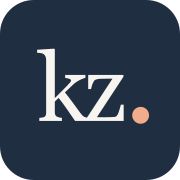
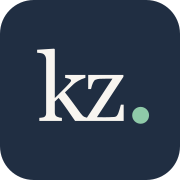
Green accent and publication diagrams
Swap the rust accent for green across the site, favicon, and OG image.
Add an EviGRN code link and method diagram to the NeurIPS entry, and an
abstract diagram for the in-preparation benchmark paper.

Changed region(s): [[0.7222, 0.5833, 0.8333, 0.6944]]

diff --git a/index.html b/index.html
@@ -274,11 +274,42 @@
         <span class="pub-status is-accepted">Accepted</span>
         <p class="pub-cite">A. Hegde, <strong>K. Zook</strong>, Y. Wang, J. Cheng. “Multimodal graph reasoning for gene regulatory network inference.” <em>NeurIPS</em> 2026.</p>
         <p class="pub-note">Co-first author. I worked on the automated literature-validation agent and the multi-omic validation component, which combines chromatin-accessibility and transcriptomic data.</p>
+        <div class="pub-links"><a class="pub-link" href="https://github.com/BioinfoMachineLearning/EviGRN" target="_blank" rel="noopener"><svg viewBox="0 0 24 24" aria-hidden="true"><path d="M12 .5C5.65.5.5 5.65.5 12c0 5.08 3.29 9.39 7.86 10.91.58.11.79-.25.79-.55 0-.27-.01-1.17-.02-2.12-3.2.7-3.88-1.36-3.88-1.36-.52-1.33-1.28-1.68-1.28-1.68-1.04-.71.08-.7.08-.7 1.15.08 1.76 1.19 1.76 1.19 1.03 1.75 2.69 1.25 3.35.95.1-.74.4-1.25.72-1.54-2.55-.29-5.24-1.28-5.24-5.68 0-1.26.45-2.28 1.19-3.09-.12-.29-.52-1.46.11-3.05 0 0 .97-.31 3.18 1.18a11.1 11.1 0 0 1 2.9-.39c.98 0 1.97.13 2.9.39 2.2-1.49 3.17-1.18 3.17-1.18.63 1.59.23 2.76.11 3.05.74.81 1.19 1.83 1.19 3.09 0 4.41-2.69 5.38-5.25 5.67.41.35.77 1.05.77 2.12 0 1.53-.01 2.76-.01 3.14 0 .31.2.67.8.55A11.51 11.51 0 0 0 23.5 12C23.5 5.65 18.35.5 12 .5z"/></svg>Code: EviGRN <span aria-hidden="true">↗</span></a></div>
+        <figure class="card-vis pub-fig">
+          <svg class="diagram" viewBox="0 0 300 92" role="img" aria-label="Expression, accessibility, and motif evidence feed a transcription-factor-centred graph model; predictions are then checked against the literature">
+            <defs><marker id="a5" viewBox="0 0 8 8" refX="6" refY="4" markerWidth="5" markerHeight="5" orient="auto"><path d="M0 1 L6 4 L0 7 z" fill="currentColor" opacity=".5"/></marker></defs>
+            <g color="var(--muted)">
+              <rect class="bx" x="1" y="4" width="70" height="20" rx="5"/><rect class="bx" x="1" y="32" width="70" height="20" rx="5"/><rect class="bx bx-miss" x="1" y="60" width="70" height="20" rx="5"/>
+              <text class="lbl" x="36" y="17" text-anchor="middle">expression</text><text class="lbl" x="36" y="45" text-anchor="middle">accessibility</text><text class="lbl" x="36" y="73" text-anchor="middle">motif</text>
+              <line class="arw-l" x1="73" y1="14" x2="110" y2="40" marker-end="url(#a5)"/><line class="arw-l" x1="73" y1="42" x2="110" y2="46" marker-end="url(#a5)"/><line class="arw-l" x1="73" y1="70" x2="110" y2="52" marker-end="url(#a5)"/>
+              <line class="edge" x1="128" y1="46" x2="166" y2="22"/><line class="edge" x1="128" y1="46" x2="172" y2="46"/><line class="edge" x1="128" y1="46" x2="166" y2="70"/>
+              <circle class="nd-a" cx="128" cy="46" r="8"/><circle class="nd" cx="166" cy="22" r="4"/><circle class="nd" cx="172" cy="46" r="4"/><circle class="nd" cx="166" cy="70" r="4"/>
+              <text class="lbl" x="150" y="90" text-anchor="middle">TF-centred graph</text>
+              <line class="arw-l" x1="182" y1="46" x2="216" y2="46" marker-end="url(#a5)"/>
+              <rect class="bx-a" x="220" y="33" width="78" height="26" rx="5"/>
+              <text class="lbl-a" x="259" y="49" text-anchor="middle">literature check</text>
+            </g>
+          </svg>
+        </figure>
       </div>
       <div class="pub">
         <span class="pub-status">In Preparation</span>
         <p class="pub-cite"><strong>K. Zook</strong>, J. Cheng. “A Benchmark for Evaluating Graph-Based Gene Regulatory Network Inference.”</p>
-        <p class="pub-note">First author. Planned for submission in December 2026, alongside a public dataset and reproducible evaluation protocol.</p>
+        <p class="pub-note">First author. Planned for submission in December 2026.</p>
+        <figure class="card-vis pub-fig">
+          <svg class="diagram" viewBox="0 0 300 92" role="img" aria-label="Several inference methods pass through one shared evaluation and come out as comparable results">
+            <defs><marker id="a6" viewBox="0 0 8 8" refX="6" refY="4" markerWidth="5" markerHeight="5" orient="auto"><path d="M0 1 L6 4 L0 7 z" fill="currentColor" opacity=".5"/></marker></defs>
+            <g color="var(--muted)">
+              <circle class="nd" cx="24" cy="16" r="5"/><circle class="nd" cx="24" cy="36" r="5"/><circle class="nd" cx="24" cy="56" r="5"/><circle class="nd" cx="24" cy="76" r="5"/>
+              <line class="arw-l" x1="32" y1="16" x2="100" y2="40" marker-end="url(#a6)"/><line class="arw-l" x1="32" y1="36" x2="100" y2="44" marker-end="url(#a6)"/><line class="arw-l" x1="32" y1="56" x2="100" y2="48" marker-end="url(#a6)"/><line class="arw-l" x1="32" y1="76" x2="100" y2="52" marker-end="url(#a6)"/>
+              <rect class="bx-a" x="104" y="31" width="92" height="30" rx="5"/>
+              <text class="lbl-a" x="150" y="49" text-anchor="middle">shared evaluation</text>
+              <line class="arw-l" x1="198" y1="46" x2="226" y2="46" marker-end="url(#a6)"/>
+              <rect class="bx" x="232" y="22" width="64" height="10" rx="3"/><rect class="bx" x="232" y="36" width="50" height="10" rx="3"/><rect class="bx" x="232" y="50" width="38" height="10" rx="3"/><rect class="bx" x="232" y="64" width="26" height="10" rx="3"/>
+              <text class="lbl" x="24" y="91" text-anchor="middle">methods</text><text class="lbl" x="298" y="91" text-anchor="end">comparable results</text>
+            </g>
+          </svg>
+        </figure>
       </div>
     </div>
   </section>

diff --git a/portfolio.css b/portfolio.css
@@ -11,8 +11,8 @@
   --surface-2:#efebe5;
   --text:#202e42;
   --muted:#5c6170;
-  --accent:#ad492f;
-  --accent-hover:#923b26;
+  --accent:#2f6b4f;
+  --accent-hover:#24563f;
   --line:#dfdad2;
   --graph:#647a96;
 
@@ -62,8 +62,8 @@
   --surface-2:#1d2b40;
   --text:#f3ede3;
   --muted:#b5bfcd;
-  --accent:#f0ac8b;
-  --accent-hover:#f7c5ad;
+  --accent:#8fcaa9;
+  --accent-hover:#b0dcc3;
   --line:#344055;
   --graph:#91aac9;
 }
@@ -76,8 +76,8 @@
     --surface-2:#1d2b40;
     --text:#f3ede3;
     --muted:#b5bfcd;
-    --accent:#f0ac8b;
-    --accent-hover:#f7c5ad;
+    --accent:#8fcaa9;
+    --accent-hover:#b0dcc3;
     --line:#344055;
     --graph:#91aac9;
   }
@@ -915,7 +915,7 @@ strong {
 
 .pub {
   display:grid;
-  grid-template-columns:160px 1fr;
+  grid-template-columns:160px minmax(0,1fr) 320px;
   column-gap:var(--space-8);
   align-items:start;
   padding:var(--space-8) 0;
@@ -942,6 +942,7 @@ strong {
 }
 
 .pub-cite {
+  grid-column:2;
   font-size:var(--fs-lg);
   line-height:1.5;
 }
@@ -952,6 +953,47 @@ strong {
   margin-top:var(--space-3);
   font-size:var(--fs-sm);
   color:var(--muted);
+}
+
+.pub-links {
+  grid-column:2;
+  display:flex;
+  flex-wrap:wrap;
+  gap:var(--space-5);
+  margin-top:var(--space-4);
+}
+
+.pub-link {
+  display:inline-flex;
+  align-items:center;
+  gap:var(--space-2);
+  font-size:var(--fs-sm);
+  font-weight:500;
+  color:var(--accent);
+}
+
+.pub-link:hover {
+  color:var(--accent-hover);
+  text-decoration:underline;
+  text-underline-offset:4px;
+}
+
+.pub-link svg {
+  width:16px;
+  height:16px;
+  fill:currentColor;
+}
+
+.pub-fig {
+  grid-column:3;
+  grid-row:1 / span 4;
+  min-height:0;
+  margin-top:0;
+}
+
+.diagram .bx-miss {
+  stroke-dasharray:3 3;
+  fill:transparent;
 }
 
 /* ==========================================================================
@@ -1084,6 +1126,15 @@ strong {
   .edu-grid {
     grid-template-columns:repeat(2,minmax(0,1fr));
   }
+  .pub {
+    grid-template-columns:160px minmax(0,1fr);
+  }
+  .pub-fig {
+    grid-column:2;
+    grid-row:auto;
+    max-width:440px;
+    margin-top:var(--space-5);
+  }
 }
 
 @media(max-width:760px) {
@@ -1164,9 +1215,14 @@ strong {
     row-gap:var(--space-4);
     padding:var(--space-6) 0;
   }
-  .pub-note {
+  .pub-cite,.pub-note,.pub-links,.pub-fig {
     grid-column:1;
+  }
+  .pub-note,.pub-links,.pub-fig {
     margin-top:0;
+  }
+  .pub-fig {
+    max-width:none;
   }
   .edu-grid {
     gap:var(--space-4);
